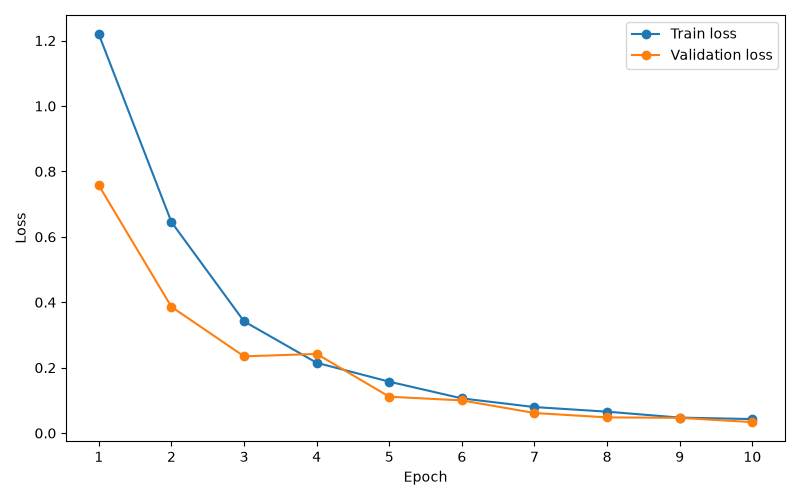
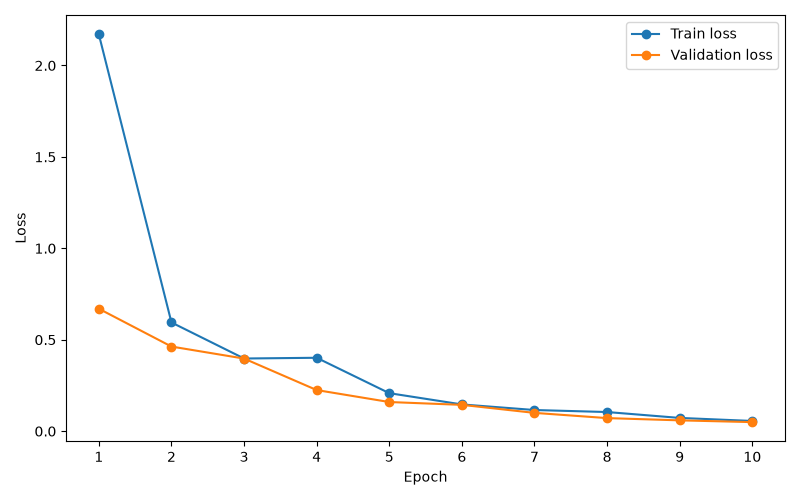
保存类别顺序并支持预测时自动读取

diff --git a/src/inspect_parameters.py b/src/inspect_parameters.py
@@ -1,0 +1,102 @@
+import argparse
+from pathlib import Path
+
+import torch
+from PIL import Image
+from torchvision import transforms
+
+# 复用训练时的模型结构；train.py 的入口判断会阻止导入时启动训练。
+from train import create_model
+
+# 从当前脚本的位置找到项目根目录，不依赖运行命令时所在的目录。
+PROJECT_ROOT = Path(__file__).resolve().parent.parent
+MODEL_PATH = PROJECT_ROOT / "best_model.pth"
+DEFAULT_IMAGE_PATH = PROJECT_ROOT / "sample_scene.png"
+
+
+def main():
+    """查看并加载已保存的参数，再预测一张图片的类别。"""
+
+    # argparse 读取命令行参数；nargs="?" 表示图片路径可以省略。
+    parser = argparse.ArgumentParser(description="查看模型参数并预测一张场景图片")
+    parser.add_argument(
+        "image_path",
+        nargs="?",
+        type=Path,
+        default=DEFAULT_IMAGE_PATH,
+        help="图片路径；相对路径以当前工作目录为起点，默认使用项目中的 sample_scene.png",
+    )
+    args = parser.parse_args()
+    # 展开路径中的 ~，再转换为绝对路径，方便确认实际读取的图片。
+    image_path = args.image_path.expanduser().resolve()
+    if not image_path.is_file():
+        parser.error(f"没有找到图片文件：{image_path}")
+
+    if not MODEL_PATH.is_file():
+        raise FileNotFoundError(f"没有找到模型参数文件：{MODEL_PATH}")
+
+    # map_location="cpu" 把张量加载到 CPU，本步不需要显卡。
+    # weights_only=True 使用受限加载方式，适合读取保存的 state_dict。
+    checkpoint = torch.load(MODEL_PATH, map_location="cpu", weights_only=True)
+    # 新格式同时保存参数和类别顺序，分别取出后再使用。
+    if "model_state_dict" in checkpoint:
+        parameters = checkpoint["model_state_dict"]
+        class_names = checkpoint["class_names"]
+    else:
+        # 兼容本项目前面保存的纯参数文件，仅沿用当时训练日志中的类别顺序。
+        parameters = checkpoint
+        class_names = ["city", "indoor", "nature"]
+        print("读取旧格式：使用本项目原有类别顺序；其他数据集请重新训练保存新格式。")
+
+    print("参数文件：", MODEL_PATH)
+    # 每一项由名称和张量组成，例如 0.weight 对应第 0 层的权重。
+    for name, value in parameters.items():
+        print(name, value.shape)
+
+    # 本项目第 4 层是分类层，权重的行数就是输出类别数量。
+    # 从权重形状取得数量，再检查它与类别名称数量是否一致。
+    number_of_classes = parameters["4.weight"].shape[0]
+    if len(class_names) != number_of_classes:
+        raise ValueError("类别名称数量与模型输出数量不一致")
+    model = create_model(number_of_classes=number_of_classes)
+
+    # 新模型最初使用随机参数；这里用文件中的参数替换它们。
+    # strict=True 要求参数名称完整匹配，形状不匹配也会报错。
+    model.load_state_dict(parameters, strict=True)
+    # 加载参数不会自动切换模式，预测前需要切换到评估模式。
+    model.eval()
+    print("参数已成功加载到模型，模型已切换到评估模式。")
+
+    # 图片预处理必须与训练时一致：调整为 64×64，再转换为张量。
+    image_transform = transforms.Compose([
+        transforms.Resize((64, 64)),
+        transforms.ToTensor(),
+    ])
+    with Image.open(image_path) as image:
+        # 与训练时 ImageFolder 的读取方式一致，统一为三个颜色通道。
+        image_tensor = image_transform(image.convert("RGB"))
+
+    # 单张图片是 [3, 64, 64]；增加批次维度后变成 [1, 3, 64, 64]。
+    image_batch = image_tensor.unsqueeze(0)
+    # eval() 切换模型模式，no_grad() 则关闭梯度记录，预测时两者配合使用。
+    with torch.no_grad():
+        scores = model(image_batch)
+        # 沿类别维度把原始分数转换为概率，每张图片的各类别概率之和为 1。
+        # 这里只用于展示预测结果，训练时交叉熵仍接收原始分数。
+        probabilities = torch.softmax(scores, dim=1)
+    # 沿类别维度取最高分的下标，再取出唯一一张图片的预测编号。
+    predicted_index = scores.argmax(dim=1).item()
+    print("预测图片：", image_path)
+    print("输入形状：", image_batch.shape)
+    print("类别顺序：", class_names)
+    print("原始类别分数：", scores[0].tolist())
+    # 下标 0 取出唯一一张图片，按训练时的类别顺序显示概率。
+    # 这些数值表示模型的预测倾向，不保证等于实际判断正确的概率。
+    for class_name, probability in zip(class_names, probabilities[0].tolist()):
+        print(f"{class_name} 的预测概率：{probability:.2%}")
+    print("预测类别：", class_names[predicted_index])
+
+
+# 直接运行这个文件才查看参数并预测；不会启动训练，也不会修改参数文件。
+if __name__ == "__main__":
+    main()

diff --git a/src/train.py b/src/train.py
@@ -274,7 +274,11 @@ def main():
             best_epoch = epoch_index
             # state_dict() 收集模型的参数和缓冲区，不包含模型结构。
             # 必须在当前最佳轮次立即写入文件，后续训练仍会继续改变参数。
-            torch.save(model.state_dict(), best_model_path)
+            # 用字典一起保存参数和类别顺序，预测时才能正确解释类别编号。
+            torch.save({
+                "model_state_dict": model.state_dict(),
+                "class_names": class_names,
+            }, best_model_path)
             print(f"已保存第 {best_epoch} 轮的最佳模型参数：{best_model_path}")
 
         # 每轮验证结束后追加一次，列表中的第一个数对应第 1 轮。

diff --git a/TRAINING_TEMPLATE.md b/TRAINING_TEMPLATE.md
@@ -33,11 +33,13 @@ scene_model/
 
 ## 2. 完整模板代码
 
-代码各阶段都附有中文注释。已有环境需要安装 `torch` 和 `torchvision`；本项目可以沿用现有虚拟环境。
+代码各阶段都附有中文注释。已有环境需要安装 `torch`、`torchvision` 和 `matplotlib`；本项目可以沿用现有虚拟环境。
 
 ```python
 from pathlib import Path
 
+# pyplot 用来把每轮记录的指标画成曲线。
+import matplotlib.pyplot as plt
 import torch
 from torch import nn
 from torch.utils.data import DataLoader
@@ -146,6 +148,20 @@ def main():
     # epoch 表示完整遍历一次训练集；这里让模型连续学习 10 轮。
     number_of_epochs = 10
 
+    # 在轮次循环外创建列表，让各轮的指标一直保留在本次运行的内存中。
+    training_loss_history = []  # 按轮次记录平均训练 loss。
+    validation_loss_history = []  # 按轮次记录平均验证 loss。
+    validation_accuracy_history = []  # 按轮次记录验证准确率。
+
+    # 在循环外保留最佳指标；准确率从 -1 开始，确保首轮可以更新。
+    best_validation_accuracy = -1.0
+    # 这里记录最佳准确率对应的 loss，不是所有轮次中最低的 loss。
+    best_validation_loss = float("inf")
+    # 轮次从 1 开始，0 表示目前还没有完成任何一轮验证。
+    best_epoch = 0
+    # 最佳参数保存到项目根目录；之后出现更好结果时覆盖同一个文件。
+    best_model_path = PROJECT_ROOT / "best_model.pth"
+
     # range 包含起点、不包含终点：range(1, 11) 依次产生 1 到 10。
     # 每次外层循环都执行下面缩进的完整流程：训练一轮，再验证一次。
     # 模型在循环外创建，因此下一轮会接着使用上一轮更新后的参数。
@@ -217,9 +233,71 @@ def main():
         validation_accuracy = (total_correct_predictions /
                                total_validation_samples)
 
+        # 优先比较准确率；准确率相同时，验证 loss 更低才算更好。
+        is_better = (
+            validation_accuracy > best_validation_accuracy
+            or (
+                validation_accuracy == best_validation_accuracy
+                and average_validation_loss < best_validation_loss
+            )
+        )
+        # 两个指标必须一起更新，确保它们来自同一轮。
+        if is_better:
+            best_validation_accuracy = validation_accuracy
+            best_validation_loss = average_validation_loss
+            # 只在指标变得更好时更新轮次，保持轮次与最佳指标对应。
+            best_epoch = epoch_index
+            # state_dict() 收集模型的参数和缓冲区，不包含模型结构。
+            # 必须在当前最佳轮次立即写入文件，后续训练仍会继续改变参数。
+            # 用字典一起保存参数和类别顺序，预测时才能正确解释类别编号。
+            torch.save({
+                "model_state_dict": model.state_dict(),
+                "class_names": class_names,
+            }, best_model_path)
+            print(f"已保存第 {best_epoch} 轮的最佳模型参数：{best_model_path}")
+
+        # 每轮验证结束后追加一次，列表中的第一个数对应第 1 轮。
+        training_loss_history.append(average_training_loss)
+        validation_loss_history.append(average_validation_loss)
+        validation_accuracy_history.append(validation_accuracy)
+
         print(f"平均训练 loss：{average_training_loss:.4f}")
         print(f"平均验证 loss：{average_validation_loss:.4f}")
         print(f"验证准确率：{validation_accuracy:.2%}")
+
+    # 退出 epoch 循环后只执行一次，查看全部轮次的训练 loss。
+    print("\n各轮训练 loss：", training_loss_history)
+    # 列表中的相同位置对应同一轮，可以比较训练和验证 loss。
+    print("各轮验证 loss：", validation_loss_history)
+    # 直接打印列表时准确率仍是小数，例如 0.8 表示 80%。
+    print("各轮验证准确率：", validation_accuracy_history)
+    print(f"最佳指标所在轮次：第 {best_epoch} 轮")
+    print(f"最佳验证准确率：{best_validation_accuracy:.2%}")
+    print(f"最佳准确率对应的验证 loss：{best_validation_loss:.4f}")
+
+    # 横轴依次是第 1 轮到第 10 轮，与历史列表中的记录一一对应。
+    epoch_numbers = range(1, number_of_epochs + 1)
+    # 创建画布，宽 8 英寸、高 5 英寸。
+    plt.figure(figsize=(8, 5))
+    # 将每轮训练 loss 连成曲线，圆点标出每轮的实际数值。
+    plt.plot(epoch_numbers, training_loss_history, marker="o", label="Train loss")
+    # 在同一张图上绘制验证 loss，方便与训练 loss 比较。
+    plt.plot(epoch_numbers, validation_loss_history, marker="o", label="Validation loss")
+    # 使用英文坐标标签，避免本机缺少中文字体时显示方框。
+    plt.xlabel("Epoch")
+    plt.ylabel("Loss")
+    # 横轴只显示实际训练轮次，并用图例区分两条曲线。
+    plt.xticks(epoch_numbers)
+    plt.legend()
+    # 自动调整边距，避免坐标标签被裁掉。
+    plt.tight_layout()
+    # 将曲线保存到项目根目录，重新运行时会覆盖这张图。
+    chart_path = PROJECT_ROOT / "training_loss.png"
+    plt.savefig(chart_path)
+    # 保存后关闭画布，释放绘图占用的资源。
+    plt.close()
+    # 显示图片路径，方便训练结束后打开查看。
+    print("训练曲线已保存：", chart_path)
 
 
 # 直接运行本文件时开始训练；导入本文件时不自动执行。
@@ -246,13 +324,16 @@ if __name__ == "__main__":
 | 位置 | 操作 | 原因 |
 | --- | --- | --- |
 | epoch 循环之前 | 创建加载器、模型、损失函数和优化器 | 模型参数持续学习，不每轮重新初始化 |
+| epoch 循环之前 | 初始化历史列表、最佳指标及保存路径 | 跨轮次保留记录 |
 | 每轮训练开始 | `model.train()`，清零训练统计 | 从上一轮验证模式切回训练模式，只统计本轮 |
 | 每个训练批次 | `zero_grad → 预测 → loss → backward → step` | 清除旧梯度，计算本批梯度，再更新参数 |
 | 每个训练批次末尾 | 累计 `平均 loss × 实际批次大小` 和样本数 | 正确处理最后一个批次数量不足的情况 |
 | 训练批次循环结束 | 计算整轮平均训练 loss | 总 loss 除以总样本数 |
 | 每轮验证开始 | `model.eval()`，清零验证统计 | 检查本轮训练后的模型表现 |
 | 验证代码块 | `torch.no_grad()`，遍历验证集 | 预测并统计指标，不记录反向传播所需过程 |
-| 每轮验证结束 | 计算平均验证 loss 和准确率 | 观察本轮模型在验证数据上的表现 |
+| 每轮验证结束 | 计算平均验证 loss 和准确率，追加到历史列表 | 观察并保留本轮验证结果 |
+| 每轮指标计算之后 | 判断 `is_better`，更新最佳指标和轮次，并保存参数 | 准确率优先，同分比较 loss；完全相同则保留较早轮次 |
+| epoch 循环之后 | 输出最佳指标并保存 loss 曲线 | 汇总本次训练结果 |
 
 ### 今天学到的关键区别
 
@@ -278,4 +359,21 @@ python src/train.py
 
 loss 越低通常说明预测分数与正确标签越匹配，但不保证每轮都下降；验证准确率反映当前验证集的分类结果。较小验证集上的 100% 准确率不代表面对所有新图片都能正确识别。
 
-这个模板覆盖当前已学的训练与验证流程。参数目前只保存在运行中的内存里，程序结束后不会自动保存；模型保存、加载、新图片预测和训练曲线可以在后续学习时补充到本文件。
+运行后，项目根目录会产生以下文件：
+
+- `best_model.pth`：字典中的 `model_state_dict` 保存最佳模型参数和缓冲区，`class_names` 保存训练时的类别顺序。准确率更高，或准确率相同且 loss 更低时覆盖保存；重新运行训练也会覆盖该文件。
+- `training_loss.png`：各轮训练与验证 loss 曲线，重新运行时覆盖。
+
+最佳准确率、对应 loss 和轮次会在终端输出。历史指标列表仅保留在本次运行的内存中；图片展示的是 loss 曲线，不包含准确率曲线。
+
+`.pth` 是二进制文件，包含参数和类别名称，但不包含模型结构或优化器状态。加载时需要创建相同结构的模型，再把字典中的 `model_state_dict` 传给 `load_state_dict()`。当前项目的 `src/inspect_parameters.py` 已实现参数查看、加载及单张图片预测，可在项目根目录运行：
+
+```bash
+# 默认预测 sample_scene.png。
+python src/inspect_parameters.py
+
+# 也可以指定图片路径。
+python src/inspect_parameters.py "/完整路径/你的图片.jpg"
+```
+
+预测脚本从新格式文件的 `class_names` 读取类别顺序。旧的纯参数文件仍可读取，但兼容分支仅适用于本项目原有的 `['city', 'indoor', 'nature']` 顺序；其他数据集应重新训练并保存新格式。预测时的模型结构和图片预处理仍必须与训练时一致。
